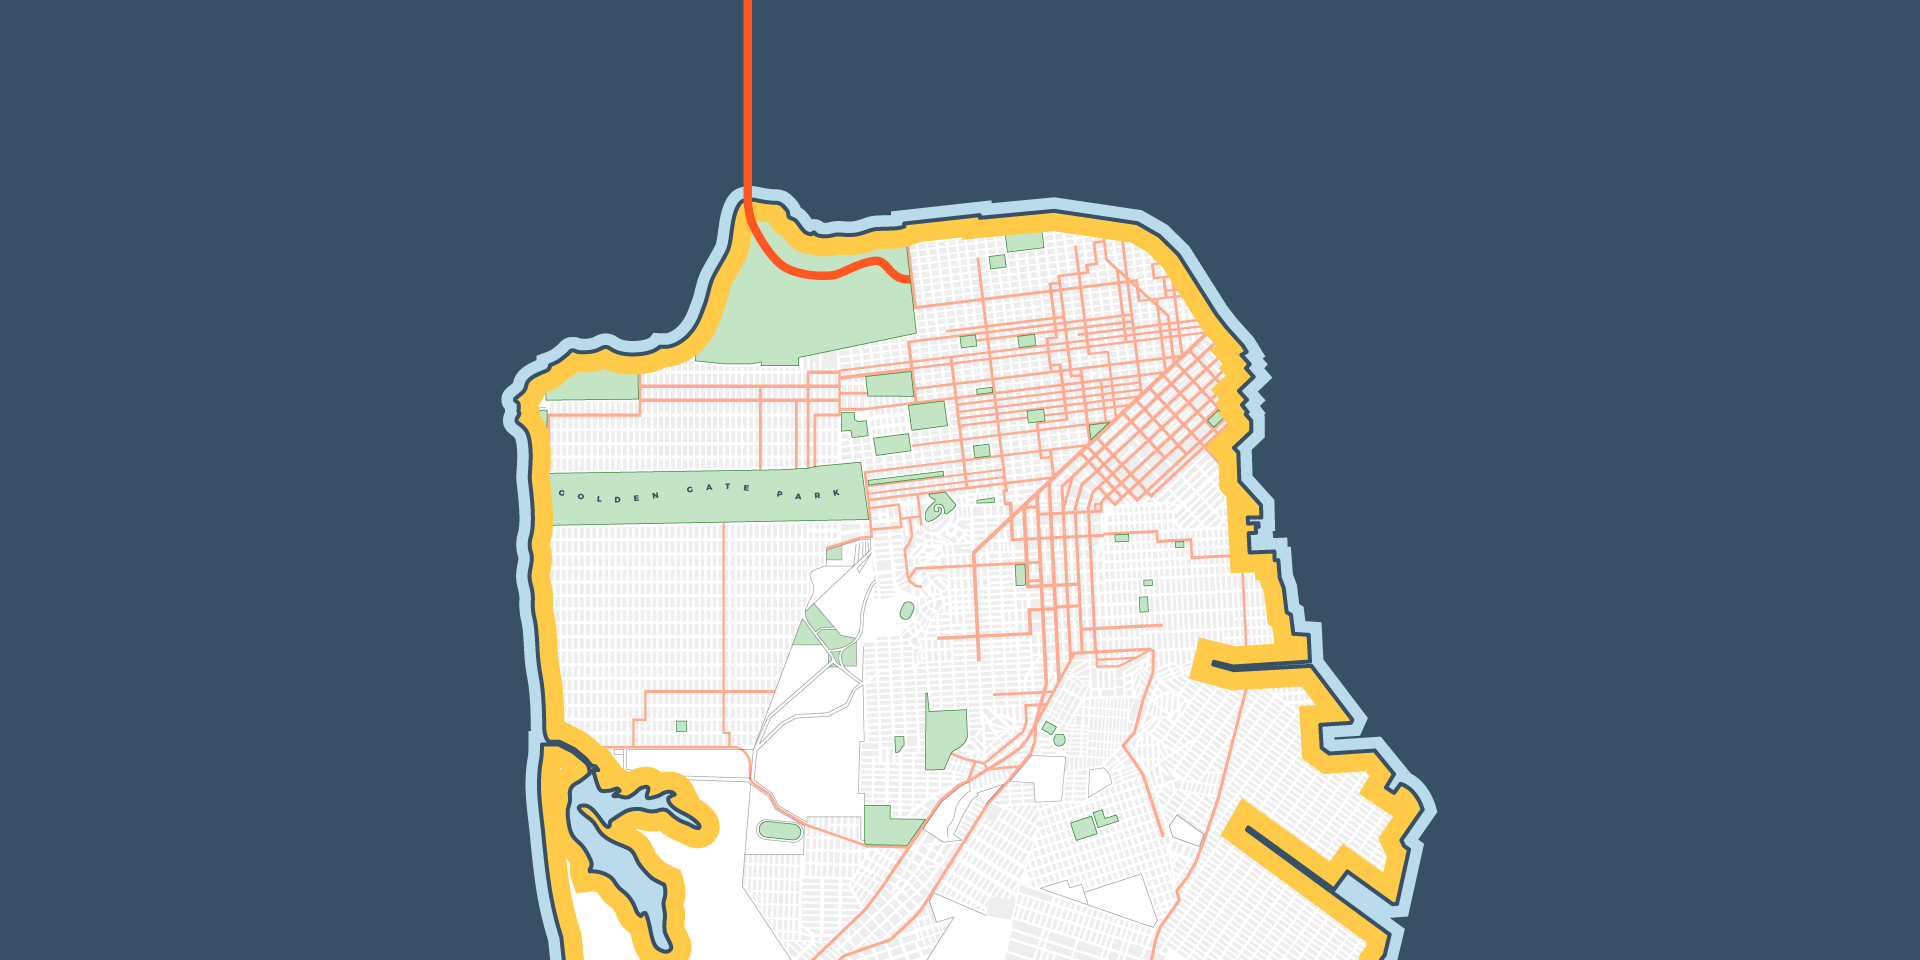
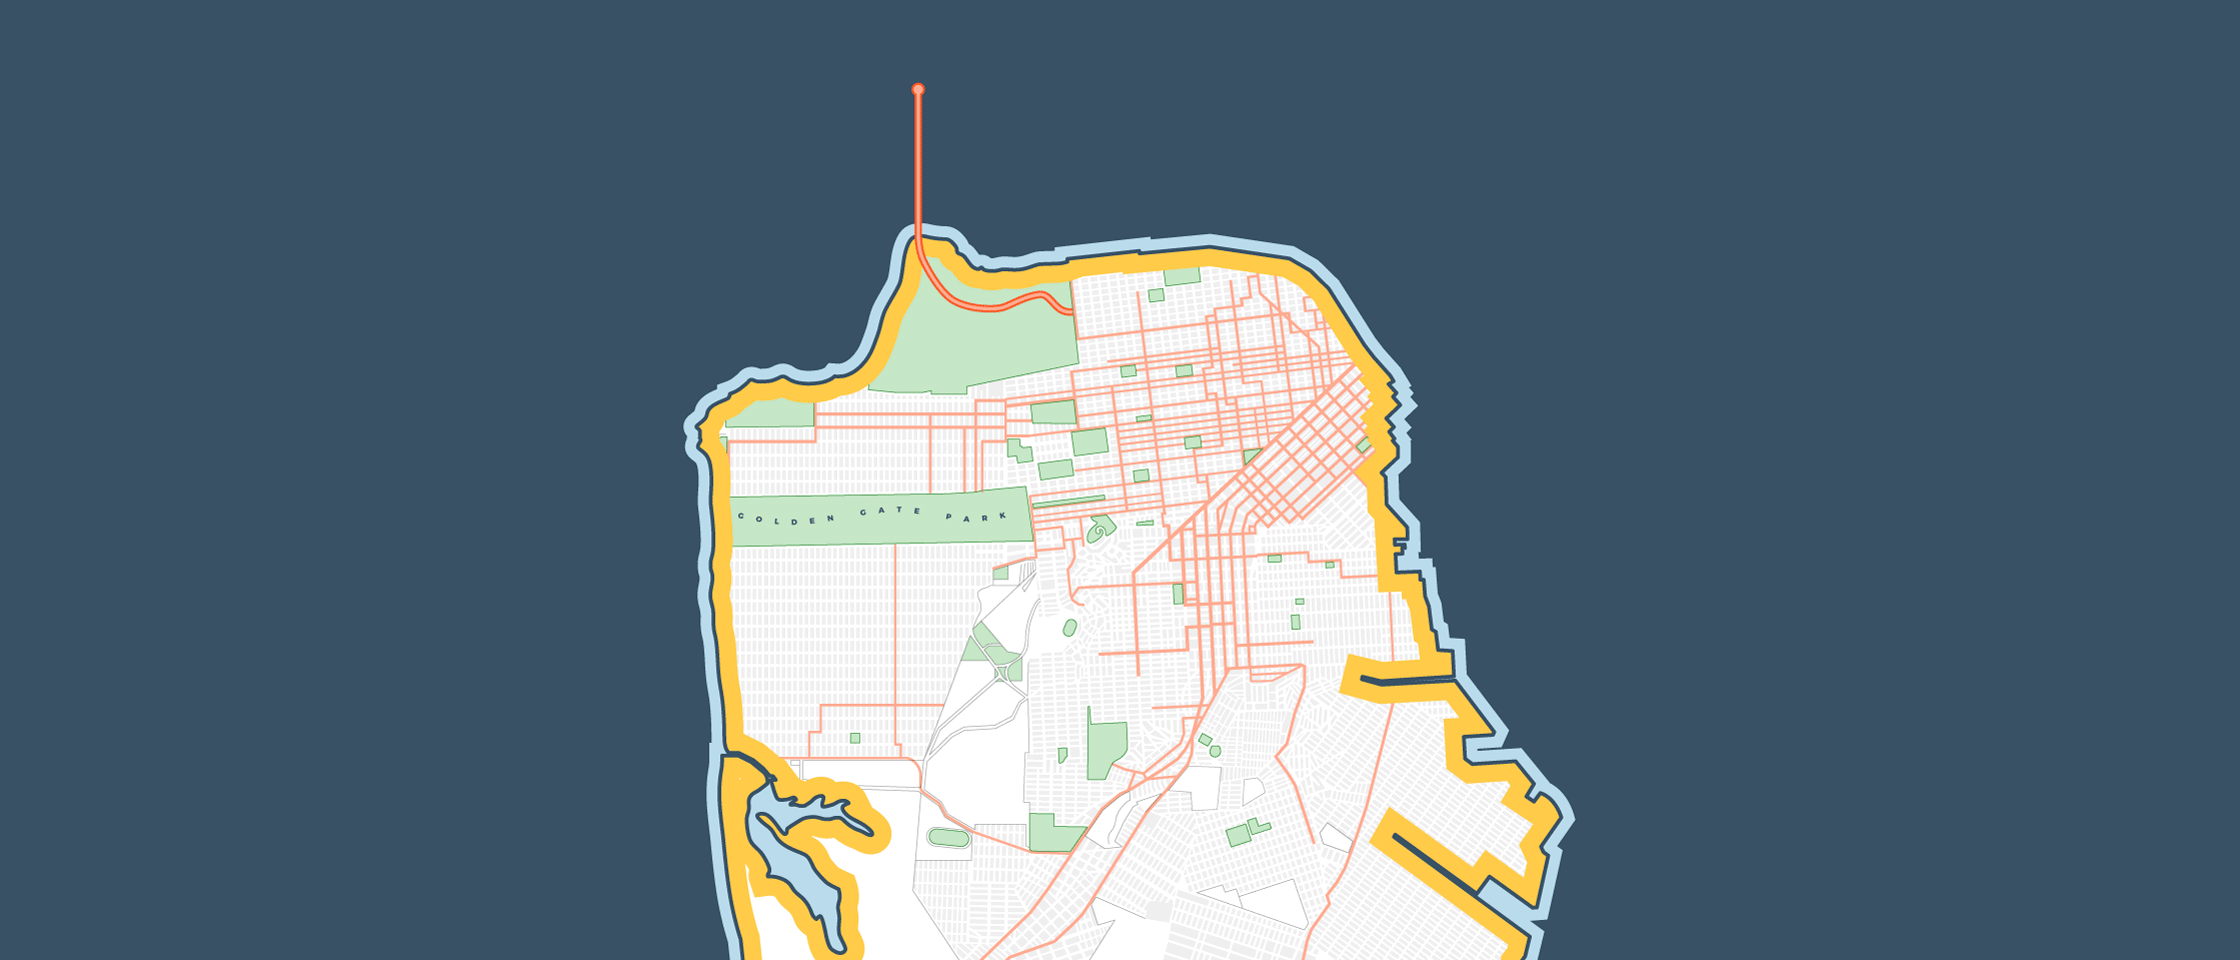
Fix background so that it fits nicely

Changed region(s): [[0.25, 0.0, 0.75, 1.0]]

diff --git a/_sass/_app.scss b/_sass/_app.scss
@@ -1,4 +1,24 @@
+/**
+ * Stylesheet for Beth and Ian's Wedding Site
+ *
+ * Copyright 2015 Ian Li (ianli@ianli.com)
+ */
+
+//////////////////////////////
+// Sizes
+//
+
 $bodyframe-width: 20px;
+$bodyframe-width-xs: 16px;
+
+$content-width: 540px;
+
+// Extra-extra small devices: before iPhone 6
+$screen-xxs-max: 375px;
+
+//////////////////////////////
+// Colors
+//
 
 $nautical-red: #FB561D;
 $nautical-yellow: #FFCA48;
@@ -29,24 +49,26 @@ $nautical-lightgray: $clr-grey-100; // Material Grey 100
   background-size: 2px 2px;
 }
 
-$content-width: 540px;
+//////////////////////////////
+// Body
+//
 
 html {
   height: 100%;
 }
 
-//////////////////////////////
-// Body
-//
-
 body {
   position: relative;
   padding: $bodyframe-width;
-  padding-bottom: $bodyframe-width + 80px;
   width: 100%;
   height: 100%;
   background-color: $nautical-dark-blue;
   color: $nautical-white;
+
+  // Extra small devices: phone
+  @media (max-width: $screen-xs-max) {
+    padding: $bodyframe-width-xs;
+  }
 }
 
 //////////////////////////////
@@ -66,8 +88,9 @@ body:after {
   // Avoid clicks on this element.
   pointer-events: none;
 
+  // Extra small devices: phone
   @media (max-width: $screen-xs-max) {
-    border-width: 16px;
+    border-width: $bodyframe-width-xs;
   }
 }
 
@@ -78,6 +101,7 @@ body:after {
 ul.sidenav {
   list-style: none;
   position: fixed;
+  z-index: 1;
   top: $bodyframe-width + 16px;
   left: $bodyframe-width;
   margin: 0;
@@ -85,7 +109,7 @@ ul.sidenav {
   font-family: $headings-font-family;
 
   > li {
-    margin-bottom: 10px;
+    margin-bottom: 12px;
 
     > a {
       display: block;
@@ -117,19 +141,34 @@ ul.sidenav {
 
   }
 
+  // XX Small devices
+  @media (max-width: $screen-xxs-max) {
+    position: relative;
+    margin-top: 8px;
+
+    > li {
+      margin-bottom: 8px;
+
+      > a {
+        padding: 8px 16px;
+        font-size: 16px;
+      }
+    }
+  }
+
+  // Extra small devices: phones
   @media (max-width: $screen-xs-max) {
     position: relative;
-    top: 0;
-    left: 0;
-    margin-top: 8px;
+    top: initial;
+    left: initial;
     width: 100%;
+    margin-top: 8px;
     text-align: center;
 
     > li {
       display: inline-block;
 
       > a {
-        display: inline-block;
         width: auto;
       }
     }
@@ -149,6 +188,7 @@ ul.sidenav {
   .container {
     padding-left: 20px;
     padding-right: 20px;
+    padding-bottom: 80px;
     width: 100%;
     // .container has padding on left and right side.
     // Each side padding is 20px.
@@ -176,8 +216,6 @@ h1, h2, h3, h4, h5, h6 {
   font-weight: normal;
   color: $nautical-yellow;
 }
-
-
 
 h1 {
   margin-top: 80px;
@@ -318,17 +356,23 @@ a.button {
 }
 
 //////////////////////////////
-// Page colors
+// Page specific settings
+//
 // Default page colors are for the 'Where to Stay' page.
-// The following are page color settings for the other pages.
+// The following are color settings for the other pages.
 //
 
+// Index Page
+//
 // Background: dark-blue
 // Sidenav: white
 // Heading: N/A
 // Lead: N/A
 // Text: N/A
 body.page-index {
+  display: flex;
+  flex-direction: column;
+
   background-color: $nautical-dark-blue;
   background-image: url(/images/bg-map.png);
   background-size: cover;
@@ -348,26 +392,27 @@ body.page-index {
   }
 }
 
+// Banner that appears on home page
+
+#page-index-content {
+  display: flex;
+  flex-direction: column;
+  flex-grow: 1;
+
+  width: 100%;
+  padding: 16px;
+}
+
 #page-index-banner {
-  margin: 80px auto auto;
+  display: block;
+  margin: auto;
   max-width: 420px;
   width: 100%;
   box-shadow: 0px 4px 20px rgba(0,0,0,.25);
 }
 
-// Medium and large devices
-@media (min-width: $screen-md-min) {
-  #page-index-banner-parent {
-    height: 100%;
-    display: flex;
-  }
-
-  #page-index-banner {
-    margin: auto;
-  }
-}
-
-
+// Story Page
+//
 // Background: yellow
 // Sidenav: dark-blue
 // Heading: dark-blue
@@ -414,6 +459,8 @@ body.page-story {
   }
 }
 
+// Schedule Page
+//
 // Background: light-blue
 // Sidenav: red
 // Heading: red
@@ -461,6 +508,8 @@ body.page-schedule {
   }
 }
 
+// Contact Page
+//
 // Background: lightgray
 // Sidenav: red
 // Heading: red

diff --git a/index.html b/index.html
@@ -1,13 +1,10 @@
 ---
-layout: page
+layout: default
 page_class: page-index
 ---
 
-<div class="row">
-  <div class="col-xs-12"
-       id="page-index-banner-parent">
-    <img
-        src="/images/index-banner.png"
-        id="page-index-banner">
-  </div>
+<div id="page-index-content">
+  <img
+      src="/images/index-banner.png"
+      id="page-index-banner">
 </div>
